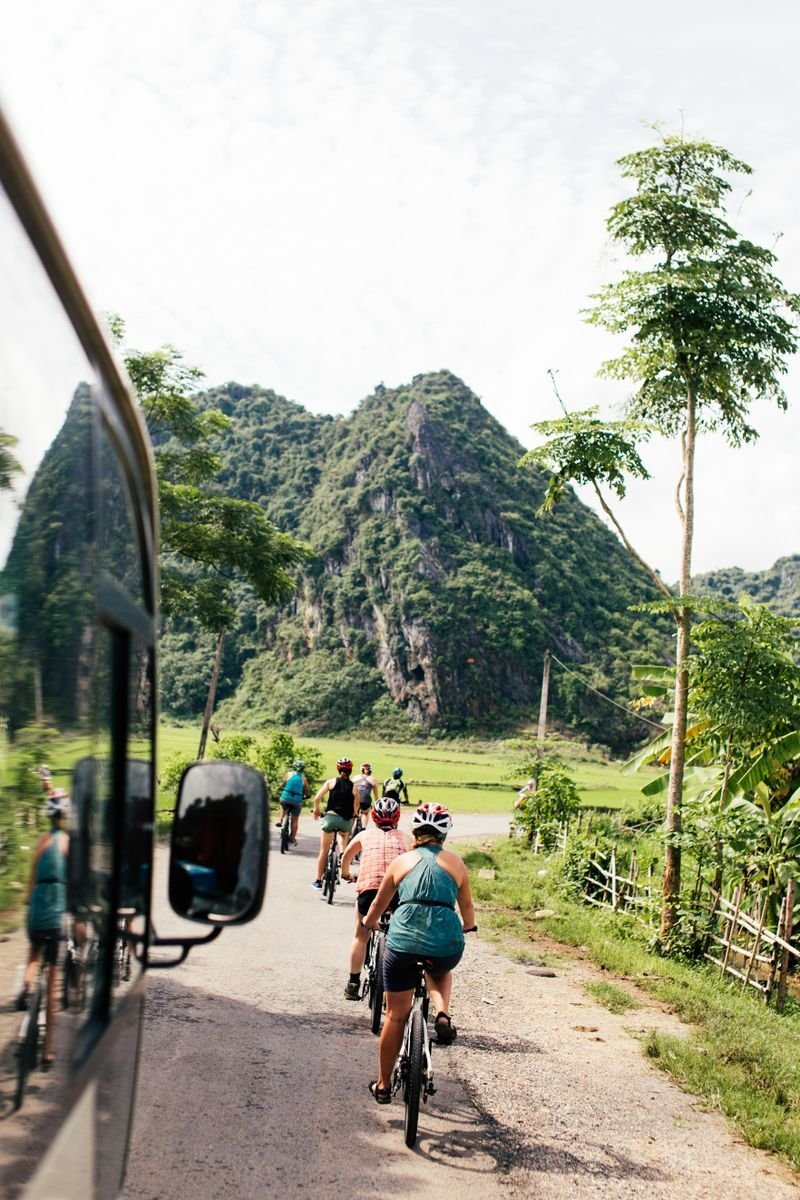
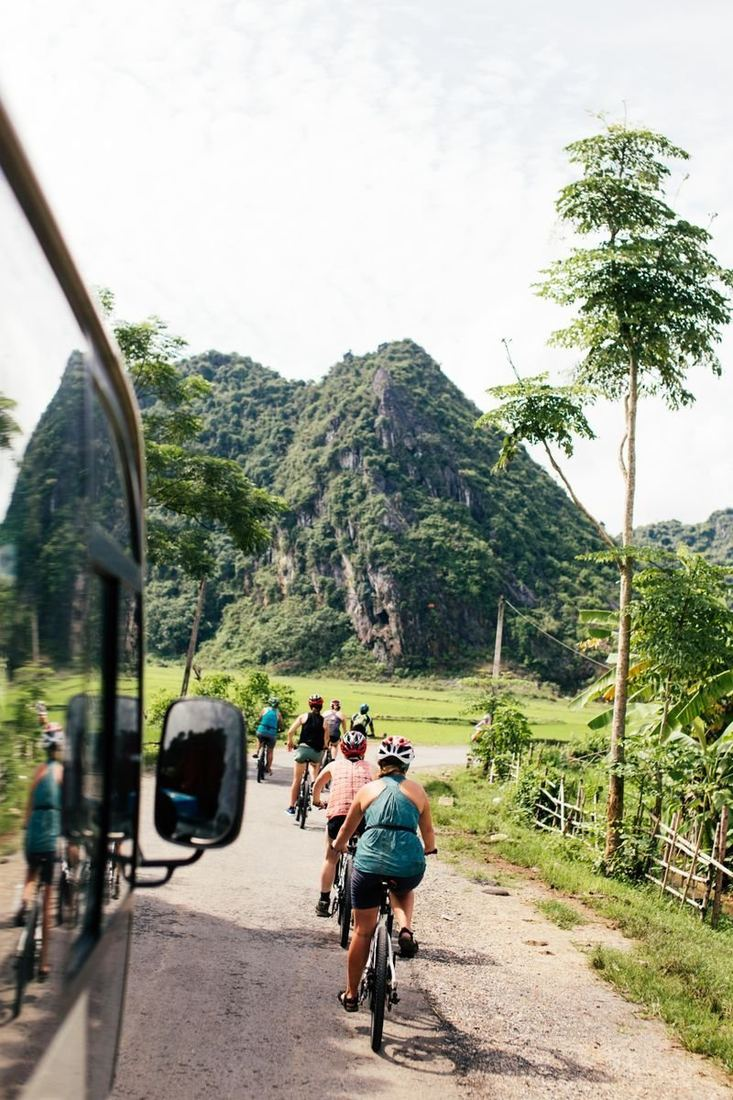
QA: recompress 4 large images (F-2) — total payload 2.16MB→2.00MB; update test report

diff --git a/tests/TEST-REPORT.md b/tests/TEST-REPORT.md
@@ -27,7 +27,7 @@
 | T4 | `alt` 属性齐全 | ✅ | 23 张图均带 alt；5 张 mega-menu 缩略图为空 alt（冗余装饰图，WCAG 合规） |
 | T5 | `loading="lazy"` | ✅ | 23 张 `<img>` 全部懒加载 |
 | T6 | 卡片数量 | ✅ | Attractions=8、Experiences=8，符合预期 |
-| T7 | 图片性能预算 | ✅ | 引用图总负载 **2.16MB**（预算 <2.5MB），最大 237KB |
+| T7 | 图片性能预算 | ✅ | 引用图总负载 **2.00MB**（预算 <2.5MB），最大 204KB |
 | T8 | 死文件 | ✅ | 无游离图（hotel-*/food-* 为子页预留，不计入） |
 | T9 | `<html lang>` | ✅ | `lang="en"`，外语站必需 |
 | T10 | 语义 landmark | ✅ | `<nav>×1`、`<footer>×1` |
@@ -41,15 +41,16 @@
 - **处置**：已按约定改为 `#hotel` / `#food` 锚点占位（2026-07-09 修改），点击不再 404；子页建好后换回真实链接即可。
 - **状态**：静态审计 T3 现已 PASS（无悬空 .html 外链）。
 
-### F-2 ⚠ 4 张图 >200KB（性能优化建议，非缺陷）
-- `hero-liriver.jpg` 212KB、`exp-liriver.jpg` 237KB、`exp-cycling.jpg` 200KB、`exp-climb.jpg` 205KB。
-- 均在 2.5MB 总预算内，对总负载无实质影响。若想再榨一点加载速度（你网络 1.73Mbps），可把 quality 从 85 降到 82 或宽度收到 750px，预计各再省 15–25%。
+### F-2 ✅ 4 张大图已再压（2026-07-09 已处理）
+- `exp-liriver` 237→153KB、`exp-climb` 205→146KB、`exp-cycling` 200→151KB（竖图限高 1100px + quality 78）；`hero-liriver` 212→203KB（1600px 全屏 hero 背景，仅降 quality 保留清晰度）。
+- 引用图总负载 **2.16MB → 2.00MB**。
+- 静态审计现仅剩 1 条 WARN：`hero-liriver.jpg` 204KB —— 全屏 hero 背景必需、1600px 宽，预算内合理保留，非缺陷。
 
 ---
 
 ## 4. 结论
 
-一级界面**通过完整性、可访问性、性能预算的全部硬性检查**，无断图、无断锚点、无缺失 alt、懒加载全覆盖、卡片数量正确。F-1（子页 404）已用锚点占位缓解；唯一剩余建议是 **F-2（4 张图可再压）**，属非缺陷的优化项。
+一级界面**通过完整性、可访问性、性能预算的全部硬性检查**，无断图、无断锚点、无缺失 alt、懒加载全覆盖、卡片数量正确。F-1（子页 404）已用锚点占位缓解；**F-2（4 张大图再压）已处理**，总负载 2.16MB→2.00MB，仅 hero 全屏背景 204KB 因清晰度必要保留。
 
 E2E 冒烟（真实浏览器渲染/导航/移动端/控制台）将在 chromium 下载完成后自动补跑并追加结论。
 
